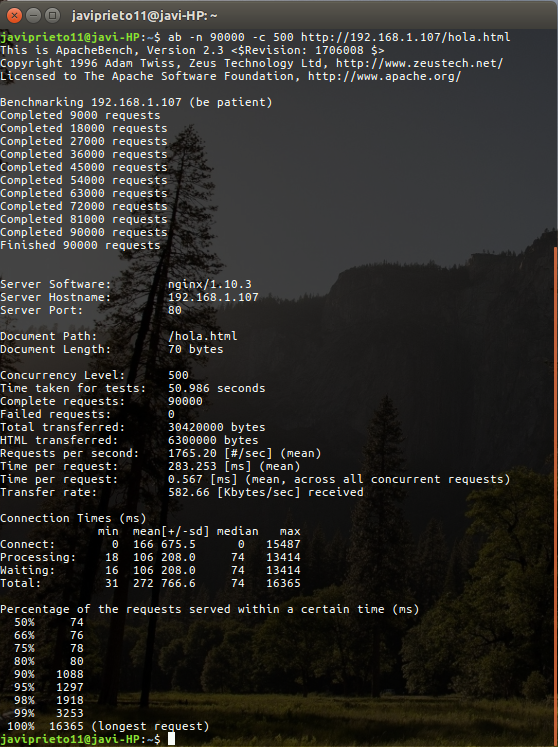
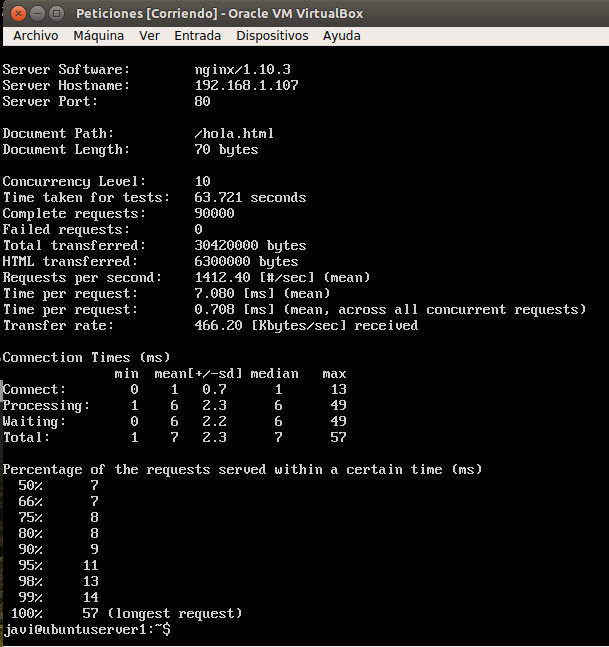
Descripción de la práctica

diff --git a/Practica3/README.md b/Practica3/README.md
@@ -2,27 +2,22 @@
 ## **Práctica3 : Balanceo de carga**    
 ***
 
-El objetivo de la práctica3 es aprender a configurar un balanceador que reparta la carga entre varios servidores finales conectados en una red, para solucionar el problema de la sobrecarga de los servidores. Así conseguimos una infraestructura redundante y de alta disponibilidad.     
+El objetivo de la práctica 3 es aprender a configurar un balanceador que reparta la carga entre varios servidores finales conectados en una red, para solucionar el problema de la sobrecarga de los servidores. 
+Así conseguimos una infraestructura redundante y de alta disponibilidad.     
 
 Para ello lo que he hecho ha sido: 
 
-### **Reconfigurar la red entre máquinas
+### **Red de las máquinas
 ***
 
-Lo primero que he hecho ha sido cambiar la opción de red: de red interna a adaptador puente.
-Y en `/etc/network/interfaces` cambiar el contenido de la red enp0s8 por el siguiente:
+Dejar claro que el tipo de red que tengo entre las máquinas es: red interna.
+La dirección de red en la que están todas las máquinas es: **192.168.1.0**
 
-`auto enp0s8`
-`iface enp0s8 inet dhcp`
- 
-Esto lo he hecho debido a que con la configuración de red interna tenía muchos fallos de servicio (networking),
-nginx me daba varios problemas y además para tener conexión con el anfitrión.
-
-La nueva configuración de red y las nuevas IPs serían:
-
+En particular:
 	ubuntuserver1 :   192.168.1.105
-	ubuntuserver2 :   192.168.1.111
+	ubuntuserver2 :   192.168.1.100
 	balanceador   :   192.168.1.107
+	peticiones    :   192.168.1.110
 
 ### **Balancear la carga usando nginx 
 ***
@@ -106,28 +101,36 @@ Para mandar peticiones con una determinada carga a nuestra granja web, he instal
 
 ## nginx
 
-Para probar nuestra granja web con un balanceador nginx, vamos a lanzar 90000 peticiones de 500 en 500 con apache benchmark a nuestro balanceador, pidiendo la página hola.html
+Para probar nuestra granja web con un balanceador nginx, vamos a lanzar 90000 peticiones de 10 en 10 con apache benchmark a nuestro balanceador, pidiendo la página hola.html
 
-`ab -n 90000 -c 500 http://192.168.1.107/hola.html`
+`ab -n 90000 -c 10 http://192.168.1.107/hola.html`
 
+**Comprobando con htop**
+![AB-nginx](imagenes/htop-nginx.png)
+
+**Salida del ab**
 ![AB nginx](imagenes/ab-nginx.png)
 
-En este caso, he realizado 90000 peticiones al servidor, donde ha tardado 50.986 segundos en hacer el test completo, no ha habido peticiones fallidas lo que quiere decir que el servidor no se ha saturado al realizar este test.
+En este caso, he realizado 90000 peticiones al servidor, donde ha tardado 63.721 segundos en hacer el test completo, no ha habido peticiones fallidas lo que quiere decir que el servidor no se ha saturado al realizar este test.
 
-Podemos observar como es capaz de atender 1765.20 peticiones por segundo, tardando unos 283.253 ms de media por petición y a una velocidad de transferencia de 582.66 Kbytes/sec.
+Podemos observar como es capaz de atender 1412.40 peticiones por segundo, tardando unos 7.080 ms de media por petición y a una velocidad de transferencia de 466.20 Kbytes/sec.
 
 
 ## haproxy
 
-Para poner a prueba nuestro servidor con haproxy como balanceador de carga hemos hecho 90000 peticiones haciendo las peticiones de 500 en 500. (Igual que con nginx)
+Para poner a prueba nuestro servidor con haproxy como balanceador de carga hemos hecho 90000 peticiones haciendo las peticiones de 10 en 10. (Igual que con nginx)
 
-`ab -n 90000 -c 500 http://192.168.1.107/hola.html`
+`ab -n 90000 -c 10 http://192.168.1.107/hola.html`
 
+**Comprobando con htop**
+![AB-nginx](imagenes/htop-haproxy.png)
+
+**Comprobando con htop**
 ![AB haproxy](imagenes/ab-haproxy.png)
 
-En este caso, con las mismas peticiones(90000), ha tardado 31.877 segundos en hacer el test completo, no ha habido fallos, luego el servidor no se ha saturado.
+En este caso, con las mismas peticiones(90000), ha tardado 53.685 segundos en hacer el test completo, no ha habido fallos, luego el servidor no se ha saturado.
 
-En este caso se han realizado 2823.37 pet/s, tardando 177.094 ms de media por petición y a una velocidad de transferencia de 934.69 Kbytes/sec.
+En este caso se han realizado 1676.46 pet/s, tardando 5.965 ms de media por petición y a una velocidad de transferencia de 555.00 Kbytes/sec.
 
 
 ##Comparación de balanceadores
@@ -138,8 +141,8 @@ transferencia.
 Aquí podemos ver una comparación de tiempos:
 
 **Balanceador 	Tiempo total 	 Peticiones fallidas 	Peticiones/segundo 	Tiempo/Petición	    Velocidad de transferencia**
-nginx 		50.986 s 	 0	    		1765.20			283.253 ms	    582.66 Kbytes/sec
-haproxy 	31.877 s 	 0			2823.37 		177.094 ms          934.69 Kbytes/sec
+nginx 		63.721 s 	 0	    		1412.40			7.080 ms	    466.20 Kbytes/sec
+haproxy 	53.685 s 	 0			1676.46 		5.965 ms            555.00 Kbytes/sec
 		
 
 
